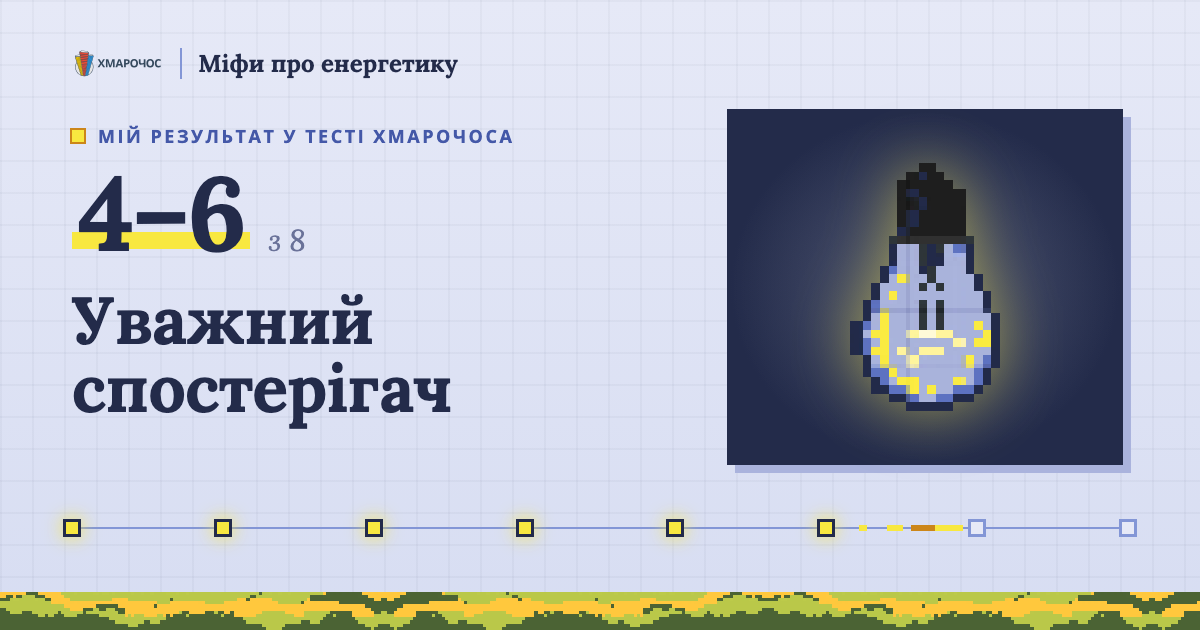
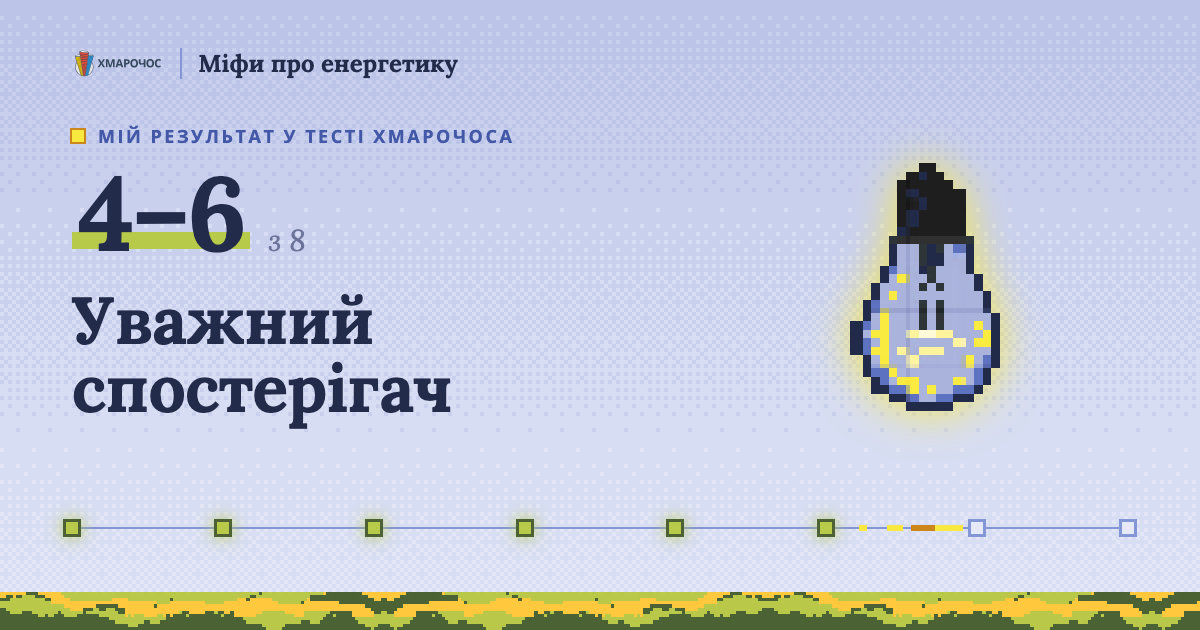
Мережа: правильне — зеленим, піксельне небо з дизерингом замість клітинки, арт результату збоку без тла; OG під це (OG_VERSION 5)

diff --git a/og-src/og.html b/og-src/og.html
@@ -15,7 +15,7 @@
 :root { --bg: #d7ddf2; --bg-2: #e6e9f7; --cloud: #aab3dd; --line: #b4bce2; --line-2: #8396d6; --text: #232b4a; --mute: #6a7299; --blue-d: #4458a8; --amber: #f8e840; --amber-2: #fcc63d; --orange: #cc8619; --night: #232b4a; }
 * { box-sizing: border-box; }
 body { margin: 0; width: 1200px; height: 630px; overflow: hidden; position: relative; color: var(--text); font-family: "Open Sans", sans-serif;
-  background: linear-gradient(rgba(35,43,74,.035) 2px, transparent 2px) 0 0 / 32px 32px, linear-gradient(90deg, rgba(35,43,74,.035) 2px, transparent 2px) 0 0 / 32px 32px, linear-gradient(var(--bg-2), var(--bg)); }
+  background: url("../public/art/px/sky.png") repeat-x left top / 32px 800px, #e2e6f6; image-rendering: pixelated; }
 .ground { position: absolute; left: 0; right: 0; bottom: 0; height: 64px; background: url("../public/art/px/hills-day.png") repeat-x left bottom / auto 100%; image-rendering: pixelated; }
 body.night .ground { background-image: url("../public/art/px/hills-night.png"); }
 .head { position: absolute; left: 72px; right: 72px; top: 46px; display: flex; align-items: center; justify-content: space-between; }
@@ -38,7 +38,7 @@ body.night .ground { background-image: url("../public/art/px/hills-night.png"); 
 .grid { position: absolute; left: 72px; right: 72px; bottom: 92px; height: 20px; }
 .grid::before { content: ""; position: absolute; left: 0; right: 0; top: 9px; height: 2px; background: var(--line-2); }
 .grid i { position: absolute; top: 1px; width: 18px; height: 18px; transform: translateX(-50%); background: var(--bg-2); border: 3px solid var(--line-2); }
-.grid i.on { background: var(--amber); border-color: var(--text); box-shadow: 0 0 18px rgba(248,232,64,.9); }
+.grid i.on { background: #b8ca4a; border-color: #4d6135; box-shadow: 0 0 16px rgba(184,202,74,.9); }
 .grid .pulse { position: absolute; top: 7px; width: 120px; height: 6px; background: linear-gradient(90deg, transparent 0 16px, var(--amber) 16px 24px, transparent 24px 44px, var(--amber) 44px 60px, transparent 60px 68px, var(--orange) 68px 92px, var(--amber) 92px 120px); }
 
 /* рівень */
@@ -47,14 +47,14 @@ body.level .start { display: none; }
 body.level .lvl { display: block; }
 .lvl .text { position: absolute; left: 72px; top: 124px; width: 640px; }
 .score { display: flex; align-items: baseline; gap: 18px; margin-top: 18px; }
-.score b { font: 700 104px/.9 "Lora", serif; color: var(--text); letter-spacing: -.03em; padding: 0 6px; background: linear-gradient(transparent 70%, var(--amber) 70% 88%, transparent 88%); }
+.score b { font: 700 104px/.9 "Lora", serif; color: var(--text); letter-spacing: -.03em; padding: 0 6px; background: linear-gradient(transparent 70%, #b8ca4a 70% 88%, transparent 88%); }
 .score span { font: italic 400 30px "Lora", serif; color: var(--mute); }
 .lvl h1 { margin: 26px 0 0; font: 700 66px/1.04 "Lora", serif; letter-spacing: -.01em; }
-.lvl .plate { right: 80px; top: 112px; width: 390px; height: 350px; display: grid; place-items: center; background: radial-gradient(closest-side, #3a4478, var(--night)); }
-.lvl .plate::before { content: ""; position: absolute; inset: 0; background: radial-gradient(closest-side, rgba(248,232,64,.12), transparent); }
-.lvl .plate.warm::before { background: radial-gradient(closest-side, rgba(252,140,40,.14), transparent); }
-.lvl .plate img { position: relative; filter: drop-shadow(0 0 30px rgba(248,232,64,.5)); }
-.lvl .plate.warm img { filter: drop-shadow(0 0 34px rgba(252,160,61,.55)); }
+.lvl .plate { right: 80px; top: 112px; width: 390px; height: 350px; display: grid; place-items: center; background: none; box-shadow: none; }
+
+
+.lvl .plate img { position: relative; filter: drop-shadow(0 0 22px rgba(248,232,64,.9)); }
+.lvl .plate.warm img { filter: drop-shadow(0 0 22px rgba(252,150,50,.8)); }
 </style>
 </head>
 <body>

diff --git a/app/skins/grid/grid.css b/app/skins/grid/grid.css
@@ -21,18 +21,16 @@
   --rust: #923a16;
   --grass: #b8ca4a;
   --forest: #4d6135;
+  --green: #8aa23a;
   --night: #232b4a;
   --pad: 20px;
 
   min-height: 100vh;
   min-height: 100dvh;
   color: var(--text);
-  /* небо з ледь помітною піксельною сіткою, як у малюнку */
-  background:
-    linear-gradient(rgba(35, 43, 74, 0.035) 1px, transparent 1px) 0 0 / 16px 16px,
-    linear-gradient(90deg, rgba(35, 43, 74, 0.035) 1px, transparent 1px) 0 0 / 16px 16px,
-    linear-gradient(var(--bg-2), var(--bg) 60%) fixed,
-    var(--bg);
+  /* піксельне небо: смуги кольорів неба з малюнка, переходи — дизеринг пікселями 4 px */
+  background: url("/art/px/sky.png") repeat-x left top / 32px 800px, #e2e6f6;
+  image-rendering: pixelated;
   font-size: 15px;
   line-height: 1.6;
 }
@@ -187,9 +185,9 @@
 }
 
 .nm .node.on {
-  background: var(--amber);
-  border-color: var(--text);
-  box-shadow: 0 0 12px rgba(248, 232, 64, 0.9);
+  background: var(--grass);
+  border-color: var(--forest);
+  box-shadow: 0 0 10px rgba(184, 202, 74, 0.9);
 }
 
 .nm .node.miss {
@@ -588,7 +586,7 @@
 }
 
 .nm .opt.good {
-  background: rgba(248, 232, 64, 0.45);
+  background: rgba(184, 202, 74, 0.45);
   padding-left: 16px;
 }
 
@@ -598,6 +596,7 @@
 
 .nm .opt.good::before {
   transform: scaleY(1);
+  background: var(--forest);
 }
 
 .nm .opt.bad,
@@ -652,8 +651,8 @@
 }
 
 .nm .ver.ok .vt {
-  color: var(--text);
-  background: linear-gradient(transparent 62%, var(--amber) 62% 92%, transparent 92%);
+  color: var(--forest);
+  background: linear-gradient(transparent 62%, rgba(184, 202, 74, 0.6) 62% 92%, transparent 92%);
 }
 
 .nm .ver.miss .vt {
@@ -739,7 +738,7 @@
   font: 700 76px/0.9 "Lora", serif;
   color: var(--text);
   /* під цифрою — піксельна жовта смуга */
-  background: linear-gradient(transparent 70%, var(--amber) 70% 88%, transparent 88%);
+  background: linear-gradient(transparent 70%, var(--grass) 70% 88%, transparent 88%);
   padding: 0 4px;
   letter-spacing: -0.03em;
 }
@@ -899,4 +898,87 @@ html:has(.nm) {
 .nm .cta .arrow {
   width: 16px;
   height: 14px;
+}
+
+/* ——— вільний арт: без рамки й тла, лише світіння ——— */
+
+.nm .free {
+  margin: 0;
+  display: grid;
+  place-items: center;
+}
+
+.nm .free img {
+  display: block;
+  height: auto;
+  image-rendering: pixelated;
+  filter: drop-shadow(0 0 14px rgba(248, 232, 64, 0.85));
+}
+
+.nm .free.warm img {
+  filter: drop-shadow(0 0 14px rgba(252, 150, 50, 0.75));
+}
+
+.nm .free.lv-observer img {
+  width: 140px;
+}
+
+.nm .free.lv-hostage img {
+  width: 110px;
+}
+
+.nm .free.lv-analyst img {
+  width: 360px;
+  max-width: 100%;
+}
+
+/* результат: на телефоні арт збоку від балів, на десктопі — праворуч великим */
+.nm .rtop {
+  display: grid;
+  grid-template-columns: minmax(0, 1fr) auto;
+  align-items: center;
+  gap: 16px;
+}
+
+.nm .rtop .free.lv-observer img {
+  width: 72px;
+}
+
+.nm .rtop .free.lv-hostage img {
+  width: 56px;
+}
+
+.nm .rtop .free.lv-analyst img {
+  width: 120px;
+}
+
+.nm .rside {
+  display: none;
+}
+
+@media (min-width: 900px) {
+  .nm .mobileOnly {
+    display: none;
+  }
+  .nm .rtop {
+    display: block;
+  }
+  .nm .rside {
+    display: grid;
+    place-items: center;
+    min-height: 420px;
+  }
+  .nm .rside .free.lv-observer img {
+    width: 200px;
+  }
+  .nm .rside .free.lv-hostage img {
+    width: 150px;
+  }
+  .nm .qside .free {
+    min-height: 360px;
+  }
+}
+
+.nm .nfBox .free {
+  margin-bottom: 20px;
 }

diff --git a/app/skins/grid/GridSkin.tsx b/app/skins/grid/GridSkin.tsx
@@ -102,6 +102,16 @@ function Plate({ src, alt = "", glow, className = "" }: { src: string; alt?: str
   );
 }
 
+/** Лампочка, свічка, батарейка — вільно, без рамки й тла: стоять збоку й світяться. */
+function Free({ src, warm, className = "" }: { src: string; warm?: boolean; className?: string }) {
+  return (
+    <figure className={`free${warm ? " warm" : ""} ${className}`} aria-hidden>
+      {/* eslint-disable-next-line @next/next/no-img-element */}
+      <img src={asset(src)} alt="" decoding="async" />
+    </figure>
+  );
+}
+
 function Share({ url, text, label }: { url: string; text: string; label: string }) {
   const [copied, setCopied] = useState(false);
   const [native, setNative] = useState(false);
@@ -286,7 +296,7 @@ function Sheet({ quiz }: { quiz: QuizApi }) {
           </div>
           {/* на широкому екрані праворуч — експонат: обкладинка, а після відповіді лампочка чи свічка */}
           <aside className="qside" aria-hidden>
-            <Plate src={answered ? (ok ? ART.bulb : ART.candle) : ART.cover} glow={answered ? (ok ? "amber" : "warm") : undefined} className={answered ? "solo" : ""} />
+            {answered ? <Free src={ok ? ART.bulb : ART.candle} warm={!ok} className={ok ? "lv-observer" : "lv-hostage"} /> : <Plate src={ART.cover} />}
           </aside>
         </div>
       </div>
@@ -329,6 +339,8 @@ function ResultBody({ level, history, onRestart }: { level: Level; history?: boo
         <div className="rgrid">
           <div className="rmain rise">
             <p className="cap">{history ? UI.yourResult : `${UI.sharedResult} «${intro.title}»`}</p>
+            <div className="rtop">
+            <div>
             {score !== undefined ? (
               <p className="score">
                 <b>
@@ -344,6 +356,10 @@ function ResultBody({ level, history, onRestart }: { level: Level; history?: boo
               </p>
             )}
             <h1 className="ltitle">{level.title}</h1>
+            </div>
+            {/* на телефоні арт — збоку від балів і звання */}
+            <Free src={LEVEL_ART[level.slug]} warm={level.slug === "hostage"} className={`lv-${level.slug} mobileOnly`} />
+            </div>
             <p className="ldesc">{level.description}</p>
             {history ? (
               <Share url={resultShareUrl(level.slug)} text={level.shareText} label={UI.shareResult} />
@@ -368,7 +384,7 @@ function ResultBody({ level, history, onRestart }: { level: Level; history?: boo
             )}
           </div>
           <aside className="rside">
-            <Plate src={LEVEL_ART[level.slug]} glow={level.slug === "hostage" ? "warm" : "amber"} className={`solo lv-${level.slug}`} />
+            <Free src={LEVEL_ART[level.slug]} warm={level.slug === "hostage"} className={`lv-${level.slug}`} />
           </aside>
         </div>
       </div>
@@ -387,7 +403,7 @@ export function NotFound() {
       <div className="col">
         <Head />
         <div className="nfBox">
-          <Plate src={ART.candle} glow="warm" className="solo lv-hostage" />
+          <Free src={ART.candle} warm className="lv-hostage" />
           <h1 className="ltitle">{UI.nf}</h1>
           <a className="cta" href={asset("/")}>
             {UI.home}

diff --git a/app/share.ts b/app/share.ts
@@ -14,4 +14,4 @@ export function resultShareUrl(slug: string): string {
 }
 
 /** Версія OG-картинок: міняємо, коли картинки перемальовано, щоб соцмережі взяли нові. */
-export const OG_VERSION = "4";
+export const OG_VERSION = "5";
